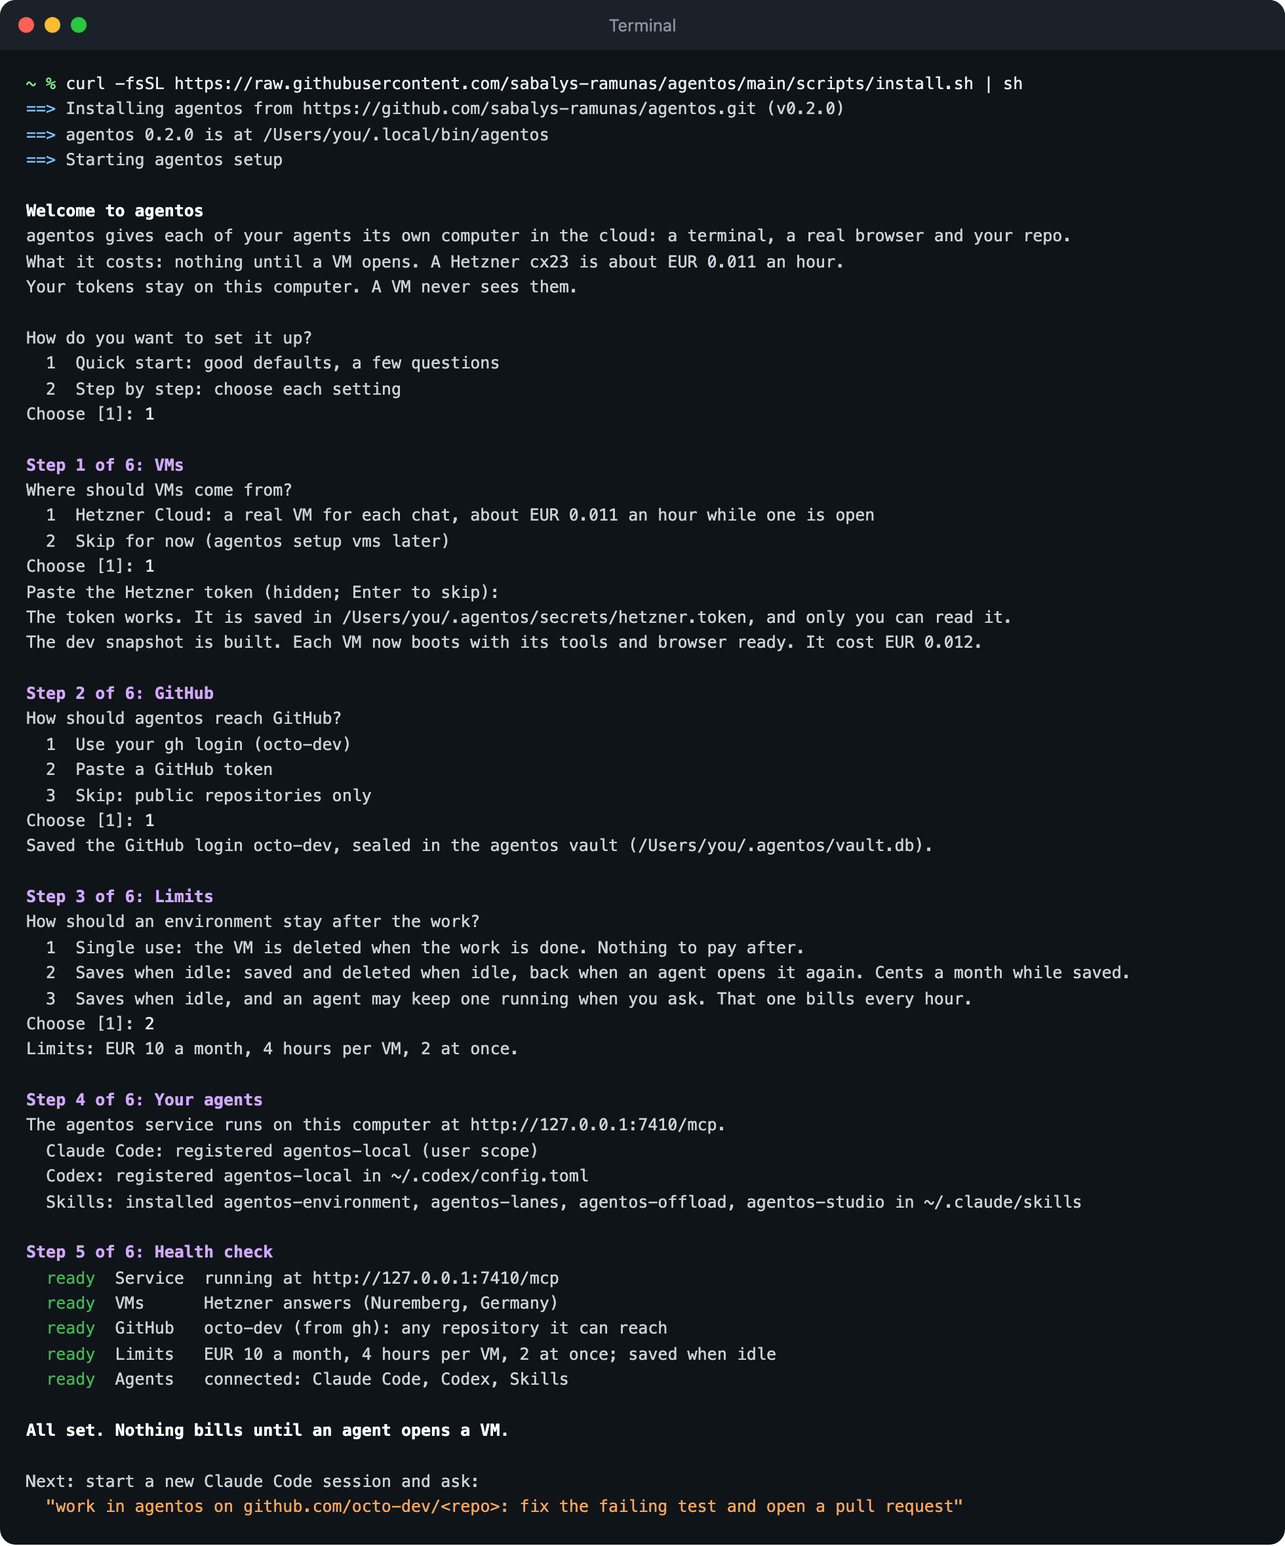
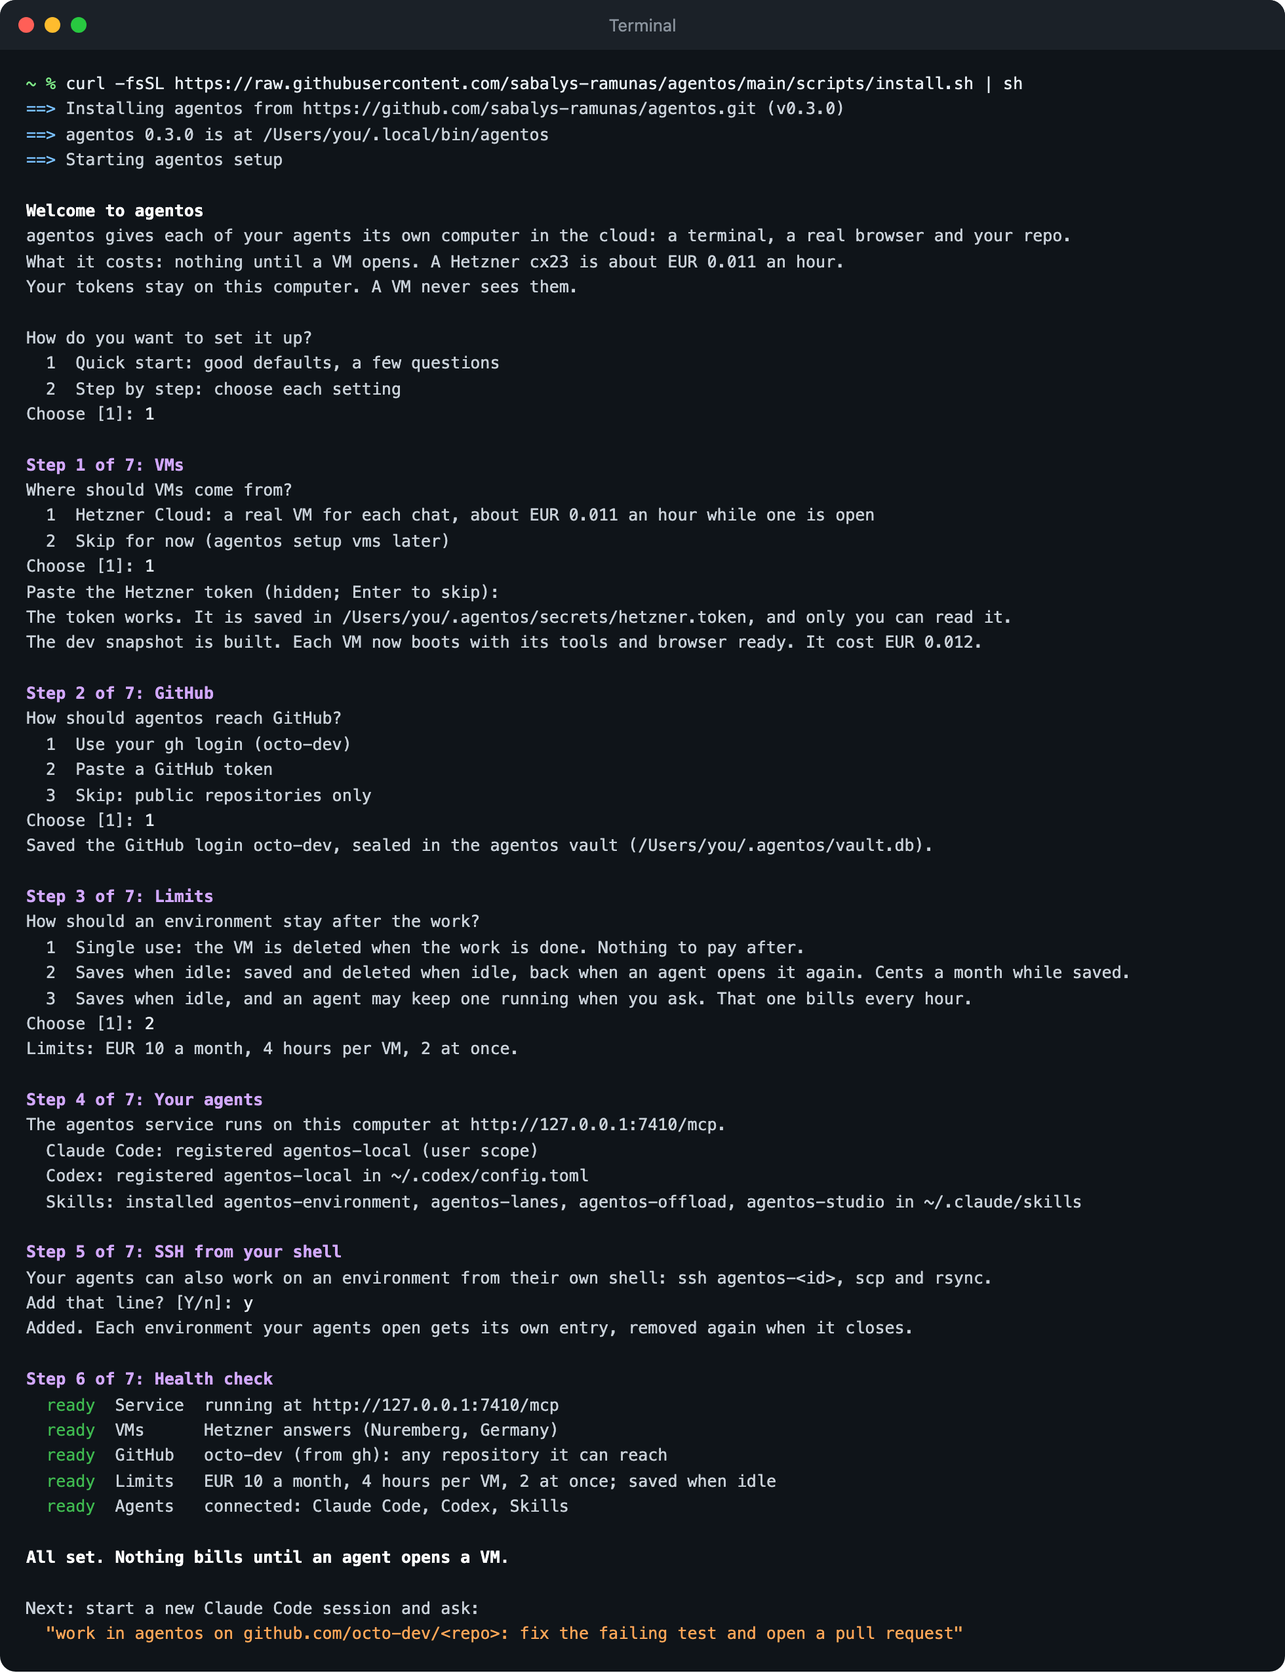
0.3.0: commits are by the owner's GitHub account; README, setup screenshot and changelog for the release

diff --git a/tests/unit/test_environments_identity.py b/tests/unit/test_environments_identity.py
@@ -1,0 +1,96 @@
+"""Who an environment's commits are by (agentos.environments.identity): the owner's GitHub account when
+a login is saved (its name and noreply address, the owner's choice of 2026-11-16), else the agent."""
+
+from __future__ import annotations
+
+import json
+import subprocess
+from pathlib import Path
+from types import SimpleNamespace
+
+import httpx
+
+from agentos.environments import identity
+from agentos.git import login
+
+TOKEN = "ghp_" + "x" * 36
+
+
+class Gateway:
+    def __init__(self, token: str | None = TOKEN):
+        self.token, self.asked = token, []
+
+    async def _read_secret(self, ref: str, purpose: str) -> str | None:
+        self.asked.append((ref, purpose))
+        return self.token
+
+
+def node(tmp_path: Path, answer: dict | None, *, status: int = 200, token: str | None = TOKEN) -> SimpleNamespace:
+    calls: list[httpx.Request] = []
+
+    def handler(req: httpx.Request) -> httpx.Response:
+        calls.append(req)
+        return httpx.Response(status, json=answer or {})
+
+    gw = Gateway(token)
+    git = SimpleNamespace(gateway=gw)
+    return SimpleNamespace(home=tmp_path, github_transport=httpx.MockTransport(handler), calls=calls, gw=gw,
+                           _get=lambda name: git if name == "git" else None)
+
+
+def saved(tmp_path: Path, **kw) -> None:
+    login.save(tmp_path, login.Login(login="octo-dev", source="gh", any_repo=True, **kw))
+
+
+async def test_the_first_open_asks_github_once_and_commits_are_by_the_owner(tmp_path):
+    saved(tmp_path)
+    mgr = node(tmp_path, {"id": 4242, "login": "octo-dev", "name": "Octo Dev"})
+    assert await identity.committer(mgr) == ("Octo Dev", "4242+octo-dev@users.noreply.github.com")
+    assert len(mgr.calls) == 1 and mgr.calls[0].headers["Authorization"] == f"Bearer {TOKEN}"
+    assert mgr.gw.asked[0][0] == login.REF
+    kept = json.loads((tmp_path / login.SETTINGS_FILE).read_text())
+    assert kept["user_id"] == 4242 and kept["name"] == "Octo Dev" and TOKEN not in json.dumps(kept)
+    assert await identity.committer(mgr) == ("Octo Dev", "4242+octo-dev@users.noreply.github.com")
+    assert len(mgr.calls) == 1  # kept: never asked again
+
+
+async def test_no_display_name_uses_the_login(tmp_path):
+    saved(tmp_path)
+    mgr = node(tmp_path, {"id": 7, "login": "octo-dev", "name": None})
+    assert await identity.committer(mgr) == ("octo-dev", "7+octo-dev@users.noreply.github.com")
+
+
+async def test_without_a_login_or_an_answer_commits_are_by_the_agent(tmp_path):
+    assert await identity.committer(node(tmp_path, {"id": 1, "login": "x"})) is None  # no login saved
+    saved(tmp_path)
+    assert await identity.committer(node(tmp_path, {}, status=401)) is None  # GitHub refused the token
+    assert await identity.committer(node(tmp_path, {"id": 1, "login": "octo-dev"}, token=None)) is None
+    assert login.load(tmp_path).user_id is None  # nothing kept from a failed ask
+
+
+async def test_a_token_that_now_belongs_to_another_account_names_nobody(tmp_path):
+    saved(tmp_path)
+    mgr = node(tmp_path, {"id": 99, "login": "someone-else", "name": "Someone"})
+    assert await identity.committer(mgr) is None
+    assert login.load(tmp_path).user_id is None
+
+
+def test_the_identity_commands_on_a_machine(tmp_path):
+    def run(cmd: str, home: Path) -> dict[str, str]:
+        home.mkdir(exist_ok=True)
+        env = {"HOME": str(home), "PATH": "/usr/bin:/bin:/usr/local/bin:/opt/homebrew/bin"}
+        subprocess.run(["sh", "-c", cmd], check=True, env=env)
+        got = {}
+        for key in ("user.name", "user.email"):
+            got[key] = subprocess.run(["git", "config", "--global", key], check=False, capture_output=True, text=True,
+                                      env=env).stdout.strip()
+        return got
+
+    owner = identity.git_identity_cmd(("Octo O'Dev", "4242+octo-dev@users.noreply.github.com"), "claude-code@mac")
+    home = tmp_path / "a"
+    run(identity.git_identity_cmd(None, "claude-code@mac"), home)  # an older machine: the agent's
+    assert run(owner, home) == {"user.name": "Octo O'Dev", "user.email": "4242+octo-dev@users.noreply.github.com"}
+    agent = run(identity.git_identity_cmd(None, "claude-code@mac"), tmp_path / "b")
+    assert agent == {"user.name": "claude-code@mac", "user.email": identity.AGENT_EMAIL}
+    kept = run(identity.git_identity_cmd(None, "another@mac"), tmp_path / "b")  # never over one already set
+    assert kept["user.name"] == "claude-code@mac"

diff --git a/src/agentos/environments/identity.py b/src/agentos/environments/identity.py
@@ -1,0 +1,77 @@
+"""Who an environment's commits are by.
+
+With a GitHub login saved (`agentos setup github`), an environment's git commits as the owner: the
+login's display name and its GitHub noreply address, so the commits link to the owner's account
+without showing their real email (the owner's choice of 2026-11-16). The account's number, which that
+address needs, is asked from GitHub once with the saved login and kept in git/login.json. Without a
+login, or when GitHub cannot be asked, commits are by the agent (its name, agent@agentos.invalid), as
+before. Nothing here puts a token on the machine: only the name and the address reach it.
+"""
+
+from __future__ import annotations
+
+import logging
+import shlex
+from typing import Any
+
+log = logging.getLogger("agentos.environments")
+
+AGENT_EMAIL = "agent@agentos.invalid"
+
+
+async def committer(mgr: Any) -> tuple[str, str] | None:
+    """(name, email) of the saved GitHub login, asking GitHub for its number and name the first time,
+    or None (no login, or GitHub could not be asked: the agent's identity then)."""
+    from agentos.git import login
+
+    try:
+        saved = login.load(mgr.home)
+        if saved is None or saved.host != login.HOST or not saved.login:
+            return None
+        if saved.user_id is None:
+            profile = await _profile(mgr)
+            if profile is None:
+                return None
+            saved.user_id = int(profile["id"])
+            saved.name = str(profile.get("name") or "")[:100]
+            if str(profile.get("login") or saved.login).lower() == saved.login.lower():
+                login.save(mgr.home, saved)
+            else:  # the token now belongs to another account: say nothing in its name
+                log.warning("the saved GitHub login %s now answers as %s; run `agentos setup github`",
+                            saved.login, profile.get("login"))
+                return None
+        return login.committer(saved)
+    except Exception as e:  # noqa: BLE001 - an identity is never a reason a machine does not come up
+        log.info("commit identity: the GitHub login's account could not be read (%s); commits are by the agent", e)
+        return None
+
+
+async def _profile(mgr: Any) -> dict | None:
+    """GitHub's /user for the saved login's token, or None."""
+    from agentos.environments.pulls import _client
+    from agentos.git import login
+
+    git = mgr._get("git")
+    gateway = getattr(git, "gateway", None)
+    if gateway is None:
+        return None
+    token = await gateway._read_secret(login.REF, "read the GitHub login's name for the environments' commits")
+    if not token:
+        return None
+    async with _client(mgr) as client:
+        resp = await client.get("/user", headers={"Authorization": f"Bearer {token}"})
+    if resp.status_code != 200:
+        return None
+    data = resp.json()
+    return data if isinstance(data, dict) and isinstance(data.get("id"), int) else None
+
+
+def git_identity_cmd(ident: tuple[str, str] | None, agent: str) -> str:
+    """The shell that sets git's identity on the machine: the owner's when known (always, so a machine
+    back from a save gets it too), else the agent's only where none is set yet."""
+    q = shlex.quote
+    if ident is not None:
+        name, email = ident
+        return f"git config --global user.name {q(name)} && git config --global user.email {q(email)}"
+    return (f"(git config --global user.name >/dev/null || git config --global user.name {q(agent[:60] or 'agentos agent')})"
+            f" && (git config --global user.email >/dev/null || git config --global user.email {AGENT_EMAIL})")

diff --git a/src/agentos/environments/bringup.py b/src/agentos/environments/bringup.py
@@ -279,7 +279,11 @@ class BringUp:
                 await together(steps.run("browser", self._make_browser(env)), steps.run("clone", self._clone(env)),
                                *early)
             else:
-                mkdir = self.envs().exec(env.terminal_lane, f"mkdir -p {machine.WORK}", timeout_s=CHECK_TIMEOUT_S)
+                from agentos.environments.identity import committer, git_identity_cmd
+
+                who = git_identity_cmd(await committer(self), env.agent)  # a repository made here commits as them too
+                mkdir = self.envs().exec(env.terminal_lane, f"mkdir -p {machine.WORK} && {{ {who}; }} || true",
+                                         timeout_s=CHECK_TIMEOUT_S)
                 await together(steps.run("browser", self._make_browser(env)), mkdir, *early)
         finally:
             for t in early:
@@ -474,11 +478,12 @@ class BringUp:
         # (public): all of it, at the cloud's speed.
         blobless = declared and env.id not in self._fetch_direct
         how = "--filter=blob:none " if blobless else ""
+        from agentos.environments.identity import committer, git_identity_cmd
+
+        who = git_identity_cmd(await committer(self), env.agent)  # the owner's GitHub account, else the agent
         cmd = (f"mkdir -p {machine.WORK} && if [ ! -d {q(dest)}/.git ]; then "
                f"git clone -q {how}{q(url)} {q(dest)}{checkout}; fi && cd {q(dest)} && "
-               "(git config --global user.name >/dev/null || git config --global user.name "
-               f"{q(env.agent[:60] or 'agentos agent')}) && (git config --global user.email >/dev/null || "
-               "git config --global user.email agent@agentos.invalid) && git rev-parse --abbrev-ref HEAD")
+               f"{who} && git rev-parse --abbrev-ref HEAD")
         # a declared repository goes through the gateway by the VM's own git config (_git_setup)
         res = await self.envs().exec(env.terminal_lane, cmd, timeout_s=CLONE_TIMEOUT_S)
         if res.exit_code != 0:

diff --git a/src/agentos/git/login.py b/src/agentos/git/login.py
@@ -46,6 +46,17 @@ class Login(BaseModel):
     source: Literal["gh", "token"] = "token"
     any_repo: bool = False
     saved_at: str = ""
+    user_id: int | None = None               # the account's number, for its noreply address (asked once)
+    name: str = ""                           # its display name, for commits
+
+
+def committer(saved: Login | None) -> tuple[str, str] | None:
+    """Who an environment's commits are by: the login's own name and GitHub noreply address
+    (<id>+<login>@users.noreply.github.com, which links a commit to the account without its real email),
+    or None without a GitHub login or before its id is known."""
+    if saved is None or saved.host != HOST or not saved.login or saved.user_id is None:
+        return None
+    return (saved.name or saved.login)[:100], f"{saved.user_id}+{saved.login}@users.noreply.github.com"
 
 
 def settings_path(home: Path) -> Path:

diff --git a/src/agentos/__init__.py b/src/agentos/__init__.py
@@ -1,3 +1,3 @@
 """agentos: a self-hosted computer for your agents."""
 
-__version__ = "0.2.0"
+__version__ = "0.3.0"

diff --git a/README.md b/README.md
@@ -44,6 +44,7 @@ and want it to do more than edit files:
 - ✅ **Run several agents at once**, each on its own machine, so they never fight over ports,
   branches or `node_modules`.
 - ✅ **Pick up tomorrow** where the agent stopped, with everything still installed.
+- ✅ **Use its own shell on the machine**: `ssh agentos-<id>`, `rsync` and `scp`, as if it were local.
 
 It is not another agent, chat or IDE. Your agent stays where it is, and agentos gives it a machine.
 
@@ -57,10 +58,11 @@ curl -fsSL https://raw.githubusercontent.com/sabalys-ramunas/agentos/main/script
 ```
 
 Setup takes about five minutes: paste a Hetzner Cloud token (or use Docker), reuse your GitHub
-login, and it connects Claude Code and Codex for you. Every step can be skipped and changed later.
+login, and it connects Claude Code and Codex for you (and `ssh` to your agents' machines). Every step
+can be skipped and changed later.
 
 <p align="center">
-  <img src="assets/readme/setup.png" width="100%" alt="agentos setup in a terminal: the install line, a welcome that says nothing bills until a VM opens, a quick start, then four steps (VMs on Hetzner Cloud with the token checked and a dev snapshot built, the GitHub login from gh, how environments stay with saves when idle chosen, and Claude Code, Codex and the skills connected), a health check where every row says ready, and the line All set. Nothing bills until an agent opens a VM.">
+  <img src="assets/readme/setup.png" width="100%" alt="agentos setup in a terminal: the install line, a welcome that says nothing bills until a VM opens, a quick start, then five steps (VMs on Hetzner Cloud with the token checked and a dev snapshot built, the GitHub login from gh, how environments stay with saves when idle chosen, Claude Code, Codex and the skills connected, and ssh from your shell), a health check where every row says ready, and the line All set. Nothing bills until an agent opens a VM.">
 </p>
 
 > [!TIP]
@@ -102,7 +104,9 @@ with a screenshot and the pull request link. You can take over the browser at an
 1. **Your agent asks for a computer** when the task needs one. agentos rents a VM, clones your
    repository into it and starts a browser there.
 2. **The agent works on it like on its own laptop.** It edits files, runs the tests, starts the dev
-   server and opens the page in the browser, where `localhost` is the VM.
+   server and opens the page in the browser, where `localhost` is the VM. It can also use its own
+   shell: `ssh agentos-<id>`, `rsync` and `scp`. Dev servers keep running when agentos restarts or
+   updates.
 3. **It shows you the result**: screenshots kept as proof, at desktop and phone width, and a pushed
    branch with its pull request link. Pushes go through agentos, so the VM never holds your key.
 4. **The VM goes away.** A one-off fix deletes it. Longer work saves the whole machine and deletes
@@ -149,6 +153,10 @@ you.
 - 🌿 **Your branches are safe.** The agent pushes new branches. It never deletes or rewrites your
   default branch, protected branches, tags, or branches someone else pushed.
 - 🧱 **Commands only on the VM.** The agent's commands run in its environment, never on your laptop.
+- 🔒 **One chat per machine.** Each machine answers only the chat that opened it, so two agents never
+  work on the same computer by accident.
+- ✍ **Commits are yours.** With your GitHub login saved, commits carry your GitHub name and noreply
+  address, so they link to your account without showing your email.
 - 👀 **You can always watch.** Every environment has a live view of its browser, and you can take
   over with one click.
 - 💶 **Hard limits.** Past the monthly cap, the time limit or the VM count, opening is refused.
@@ -241,7 +249,8 @@ forget it. Your keys are not: no token, password or account ever reaches the VM.
 
 Yes, while an agent works. The agent runs on your laptop and reaches its VM through agentos there.
 When the laptop sleeps, an environment that saves when idle is saved and its VM deleted, so nothing
-bills overnight. For machines that keep working while you sleep, run agentos on a server (below).
+bills overnight. A dev server on the VM keeps running while agentos restarts or updates. For
+machines that keep working while you sleep, run agentos on a server (below).
 
 </details>
 
@@ -315,13 +324,14 @@ Install, hardening, backups and upgrades: [deploy/README.md](deploy/README.md).
 
 | Tool | What it does |
 |:--|:--|
-| `environment_open(title, repo, keep)` | opens a computer (or resumes the one with that title) with the repo in `/work/<name>` and a browser |
+| `environment_open(title, repo, keep)` | opens a computer (or resumes the one with that title) with the repo in `/work/<name>` and a browser; returns `on`, which every later call carries |
 | `environment()` | what is open and saved, the cost so far, ports, git, and the pull request link |
 | `environment_close(note)` | ends it: deleted, or saved with a note for the next agent |
 | `environment_save(note)` | saves the whole machine now, before a risky step |
 | `environment_upload()`, `environment_download(path)` | one-use links to send a local checkout up, or a file down to you |
 | `lane_file_read`, `lane_file_edit`, `lane_exec` | read and edit code, run a command on the VM |
-| `lane_job_start`, `lane_job_read` | dev servers and long jobs |
+| `lane_job_start`, `lane_job_read(until_port=3000)` | dev servers and long jobs; wait until a port listens |
+| `ssh agentos-<id>` (local mode) | the agent's own shell on the machine, with `scp` and `rsync` |
 | `browser_navigate`, `browser_snapshot`, `browser_act` | the VM's browser: read the page as an outline, act by reference |
 | `browser_screenshot(proof=...)` | a screenshot kept as proof, at desktop or phone width |
 

diff --git a/CHANGELOG.md b/CHANGELOG.md
@@ -6,6 +6,51 @@ All notable changes to agentos are recorded here. The format follows
 
 ## [Unreleased]
 
+## [0.3.0] - 2026-11-16
+
+Agents work on their computer the way they work locally, one chat per machine, and a lot less waiting.
+Built from three rounds of agent testers and two field reports from a real project.
+
+### Changed
+
+- **One chat per machine.** `environment_open` returns `on`, a handle only that chat has; every call to
+  the machine carries it. Another chat's title is `environment_in_use`; `take_over=true` moves a machine
+  that has been quiet for 10 minutes. Clients that send no session id must pass `on` on every call.
+- **Commits are yours.** With your GitHub login saved, an environment's commits carry your GitHub name
+  and noreply address (they link to your account without your real email); without one, the agent's.
+- **One count limit** (`environment_full`, with `retry_after`), and `environment_open` waits for a free
+  slot up to its `wait_s` instead of failing.
+
+### Added
+
+- **The agent's own shell:** `ssh agentos-<id>`, `scp` and `rsync` from the laptop (`agentos setup ssh`
+  adds one Include line to `~/.ssh/config`). Each machine has its own key; port forwards are off
+  (`environment_port` gives a local link to a dev server).
+- **Dev servers survive agentos.** Jobs run detached on the VM with their output in files there; a restart
+  or an update of agentos reattaches to them with the same job ids and offsets.
+- `lane_job_read(until_port=3000)` waits on the machine until a dev server listens (or returns the job's
+  end), and `environment(on=...)` waits up to a minute for a starting machine: no more polling.
+- **Memory:** every VM gets swap, and a process the kernel kills for memory is named in the job's and
+  the command's result, with the machine's memory and the next size.
+- A resume brings back dev servers from what was listening when the machine was saved.
+
+### Fixed
+
+- Opening is about three times faster (81 s instead of 255 s on a real run): the local service no longer
+  runs as a throttled macOS Background job, the setup check is one call, the clone through the laptop is
+  blobless (a quarter of the bytes), public repositories clone straight from GitHub, and the mirror warms
+  while the VM boots.
+- Nothing runs on a machine that is still starting (a git command during the clone broke it); a failed
+  one says why on the next call.
+- No system updates in the middle of a session (they reloaded systemd and restarted the network under a
+  starting browser): they are applied when a VM is set up and when the dev snapshot is built, and a
+  kept-running machine gets them at a quiet moment.
+- A save could be undone by the reaper and leave its title held; a push could reuse a fetch from before
+  it and let a force push over a colleague's commit through. Both fixed.
+- Clearer errors: which browser launch step hung, the `pkill -f` that killed its own shell, the two
+  limits' words, `which_environment` naming the open titles, and `unsaved_work` offering a git bundle.
+- Installed skills refresh when the service starts; `agentos local status` shows the right start time.
+
 ## [0.2.0] - 2026-11-16
 
 The first tagged release. agentos is now about agent environments: your coding agent's own

diff --git a/docs/ENVIRONMENTS.md b/docs/ENVIRONMENTS.md
@@ -428,6 +428,15 @@ agent gets a link to it on the node's own address, good for 15 minutes (`environ
 `curl -o proof.png "<url>"`. The web app's environment page shows them too
 (`GET /api/orgs/{org}/environments/{id}` lists `proofs`, and each `src` is its PNG).
 
+### Who the commits are by
+
+With a GitHub login saved (`agentos setup github`), an environment's git commits as you: your GitHub
+display name and your GitHub noreply address, `<id>+<login>@users.noreply.github.com`, so the commits
+link to your account without showing your email. agentos asks GitHub for the account's number once,
+with the saved login, and keeps it in `git/login.json`; only the name and the address reach the VM,
+never a token. Without a login (or when GitHub cannot be asked), commits are by the agent: its name and
+`agent@agentos.invalid`. An agent may still set its own with `git config` on the machine.
+
 ### Pull requests
 
 After `git push origin <branch>`, `environment_pull_request(title, body=None, base=None,
